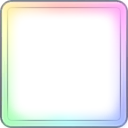
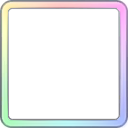
优化头像框图片，并优化触发命令
- 重新ps了一下头像框，去掉了外发光，这样看着更加好看
- 精简优化触发命令

Changed region(s): [[0.0625, 0.0625, 0.9688, 0.9375]]

diff --git a/__init__.py b/__init__.py
@@ -373,7 +373,7 @@ async def leave_notice(session: NoticeSession):
             binds.pop(uid)
             save_binds()
 
-@sv.on_prefix('竞技场换头像框')
+@sv.on_prefix('竞技场换头像框', '更换竞技场头像框', '更换头像框')
 async def change_frame(bot, ev):
     user_id = ev.user_id
     frame_tmp = ev.message.extract_plain_text()
@@ -397,7 +397,7 @@ async def change_frame(bot, ev):
     await bot.send(ev, msg)
 
 # see_a_see（
-@sv.on_fullmatch('查竞技场头像框')
+@sv.on_fullmatch('查竞技场头像框', '查询竞技场头像框', '查询头像框')
 async def see_a_see_frame(bot, ev):
     user_id = str(ev.user_id)
     current_dir = os.path.join(os.path.dirname(__file__), 'frame.json')
